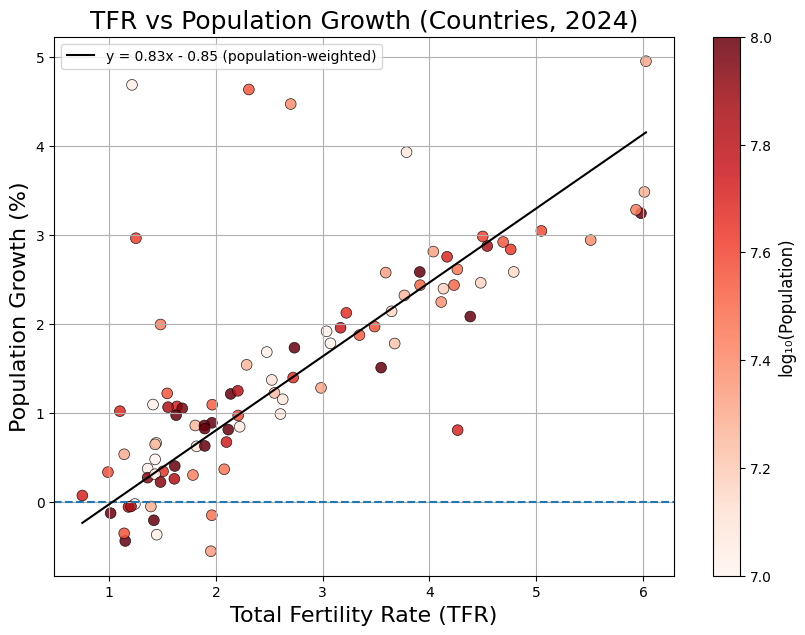
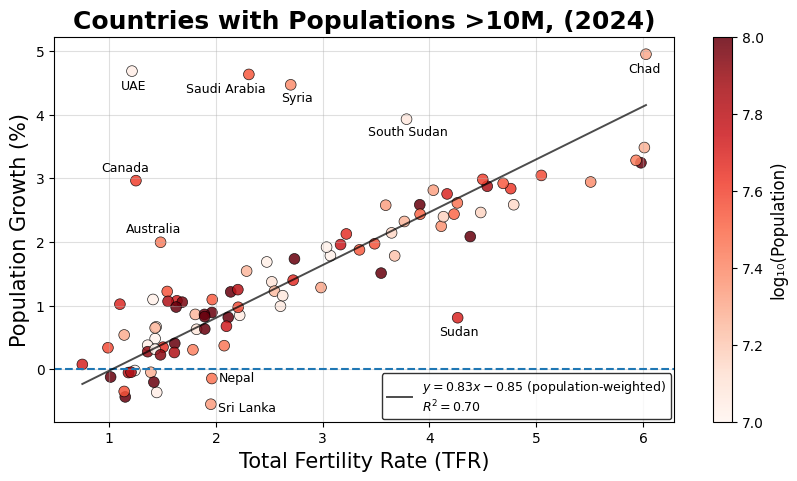
Pics, new article in drafts

diff --git a/_drafts/2026-05-01-fertility_rate.md b/_drafts/2026-05-01-fertility_rate.md
@@ -2,49 +2,276 @@
 
 layout: post
 
-title: "Common Misconceptions About Fertility Rates"
+title: "Fertility Rates Are Trickier Than They Seem"
 
 ---
 
-(TODO: Some remarks about the ongoing politcal debate and TFRs being low across the globe.)
-
-## What's Fertility Rate?
-
-#### Wrong Approach 1: 
-TFR is not about the average number of children per woman. This way our analysis would be contaminated by decisions and customs from 20 years ago. 
-
-#### Wrong Approach 2: Confusing TFR with the Birth Rate
-These two are not the same. Explain, show some pics/gifs.
-
-#### Actual Definition of TFR
-Something.
-
-## **Myth 1:** If TFR sits below ~2.1, then population of a country decreases.
-
-TODO: It's kind of true, but only in the long term. Examples
-
-## **Myth 2:** The replacement rate is ~2.1 to account for premature deaths. 
-
-TODO: No, it's actually the sex ratio. Without it, the RR would sit at almost exactly 2.0. 
-
-## **Myth 3:** Below the replacement rate the population pyramid becomes unstable in the long term.
-
-TODO: Actually, the shapes stabilize over time regardless of TFR. Enter some remarks for nerds that the largest eigenvalue of the Leslie Matrix dominates after ~100 years or so.
-
-## Modelling Demographic Trends
-
-TODO: Don't elaborate on this part earlier - just mention that in the last section some details are covered. Deeper analysis of Leslie and eigenvalues should be considered as a separate post.
-
-
-
-
-<figure style="max-width: 700px; margin: 1.5em auto; text-align: center;">
-  <img src="/assets/img/goddesses/samurai_jack_worms.png"
-       alt="Two-headed Worm"
-       style="width: 100%;">
-  <figcaption style="font-size: 0.9em; color:  #000;">
-    The two guardians puzzle makes a cameo in popular media. For instance, in the 15th episode of Samurai Jack, a two-headed worm (falsely) promises to grant a wish if the samurai solves the puzzle correctly.
+<figure style="max-width: 800px; margin: 1.5em auto; text-align: right;">
+  <img src="/assets/img/fertility_rate/tetmajer.png"
+       alt="ASFR in Poland of 2014"
+       style="width: 100%; display: block;">
+  <figcaption style="font-size: 0.8em; color: #000;">
+    Włodzimierz Tetmajer, <em>The Artist’s Family</em> (1905)
   </figcaption>
 </figure>
+
+In recent years, demography has become a hot topic in political debate. More and more countries describe their long-term trends as bad, with fewer children being born and populations aging rapidly.
+
+To quantify how bad ‘bad’ is, we use various metrics, the most prominent of which is the ***total fertility rate*** (TFR). It is possibly the best proxy we have for the expected number of children per woman and is one of the most widely used statistics in this area. However, as we will soon see, the notion is far trickier than many assume.
+
+
+
+# Total fertility rate: what it is (and isn’t)
+
+Before we proceed to present the full definition and motivation behind it, it's better to explain what TFR *is not*. 
+
+#### Wrong approach 1: Just take the average number of children per woman?
+
+This idea falls apart fairly quickly. The number of children our mothers or grandmothers had doesn't really tell us much about the likelihood that a woman of a certain age would consider having a child *now*.
+
+To study demographic trends, we need a metric that is not ‘contaminated’ by lifestyles, economic conditions, and decisions from many years ago.
+
+
+#### Wrong approach 2: Confusing TFR with Birth Rate
+
+Ok, what about something like the number of births per 1,000 people in the past year? That surely solves the issue of recency mentioned above, right?
+
+This metric is called the ***(crude) birth rate*** (BR). Since both BR and TFR are supposed to capture general demographic trends, the two are quite frequently confused. Regardless, there are some serious caveats:
+
+- If we consider ‘per 1,000 people’ instead of ‘per 1,000 women’, we expose ourselves to the issue of skewed gender ratios. For example, in the United Arab Emirates (2026), ~64% of the population are men.
+
+- Imagine a country where politicians are expected to do something about a low BR. They come up with a brilliant idea: let's relocate everyone above the age of 60 to the Côte d’Azur or Spain. The BR suddenly improves, even though nothing changes about how many children women are willing to have. 
+
+- Children do not contribute to BR either, so relocating them would also help in the short run. And, as the saying goes, in the long run we’re all dead anyway.
+
+#### Wrong approach 3: Confusing TFR with GFR
+
+Ok, what if we focused on women of reproductive age instead? Such a metric is called the ***general fertility rate*** (GFR), which usually considers women between the ages of 15 and 49, at least according to the WHO. Unfortunately… problems:
+
+- One could argue the range is somewhat arbitrary, since a randomly chosen woman aged 48 is, statistically speaking, far less likely to give birth than one aged 28. We could assign some weights to each age group to account for that, but then, GFR would become convoluted and even more arbitrary.
+
+- Ebb and flow. First, consider how many births, on average, are given by women of a particular age in a given country in a given year. This is called ASFR, or ***Age-Specific Fertility Rate***. 
+<div style="height: 0.5em;"></div>
+**Example.** Imagine Country X where the likelihood of a woman of any given age having a child didn't change at all between 1990 and 2010. For each age group the ASFR remains constant over time. However, the population age structure *might* change, which will distort GFR.
+
+<figure style="max-width: 800px; text-align: center;">
+  <img src="/assets/img/fertility_rate/br_vs_tfr.png"
+       alt="ASFR in Poland of 2014"
+       style="width: 100%;">
+  <figcaption style="font-size: 0.8em; color:  #000;">
+    Due to a past baby bust in Country X, there are fewer women aged 30 in 1990. Fifteen years later, a larger cohort reaches that age, increasing GFR from 56.5/1000 to 68.5/1000, even though the likelihood of having a child at each age remains unchanged.
+  </figcaption>
+</figure>
+
+
+#### Actual Definition of TFR
+
+The last wrong approach taught us that we need a metric that won't change if ASFRs remain constant across all the age groups. The simplest thing we could do is to simply take the sum of all these values:  
+
+$$ TFR := \sum_{\text{age}} ASFR(\text{age}). $$
+
+Voilà. In the case described by the diagram above we get $TFR = 2.2$. 
+
+An interpretation of TFR I am quite fond of is the following:
+
+- Imagine a woman born in 2014 who lives through that year on repeat. Every time she reaches the end of the year, she returns to its beginning and experiences the same conditions again. The total number of children she has across these repetitions is exactly what the TFR measures.
+
+The key advantage of TFR is its interpretability. When we hear that Birth Rate of Country X is 19.4/1000, it's not intuitively obvious if it's a lot or not. On the other hand, the TFR of Country X being 2.2 immediately tells us that women are expected to have slightly more than two children on average.
+
+This metric also has some weaknesses, but amongst the most popular choices this one is possibly the most robust.  
+
+
+## **Myth 1:** If TFR sits below ~2.1, then the population of a country decreases.
+
+The value of 2.1 refers to what’s called the ***replacement rate***. I admit the title of this section is a bit provocative, because it’s not really a myth… at least not in the long run. And it might take decades before we see any 'long run'. It turns out that, locally, many interesting and counterintuitive scenarios may occur.
+
+Let us begin by stating the obvious: 
+
+$$ \Delta \text{Population} = \text{Births} - \text{Deaths} + \text{Net Migration}. $$
+
+If we forget about the migration effects, then the population grows simply if more people are born than die. As a consequence, if a certain country is young on average, then to get $\Delta \text{Population} > 0$ we don't even need that many births if the number of deaths stays low.
+
+**Example.** Consider a country called Imaginationland. It satisfies a few conditions:
+
+- In year 2000 it was **occupied only by people of age 40 or younger**. In each age group there were exactly 100,000 of both women and men.
+
+- We have $TFR = 1.0$. **The ASFR curve is simplified** to two straight lines between the ages of 15 and 45 with a peak at 30.
+
+- To make the model cleaner, **no one before the age of 60 ever dies** in Imaginationland.
+
+- The crucial assumption anyone designing any model loves the most: **we assume that no parameter determining the evolution ever changes!**
+
+ 
+
+<!-- <figure style="max-width: 800px; text-align: center;">
+  <img src="/assets/img/fertility_rate/youngpop.gif"
+     onclick="this.src=this.src"
+     alt="Imaginationland Simulation"
+     style="max-width: 800px; width: 100%; display: block; cursor: pointer;">
+  <figcaption style="font-size: 0.8em; color:  #000;">
+    
+  </figcaption>
+</figure> -->
+
+<figure style="max-width: 1100px; text-align: center; margin: auto;">
+  <video
+    controls
+    loop
+    playsinline
+    preload="metadata"
+    style="
+      width: 100%;
+      display: block;
+      margin: 1.5em auto;
+      background: transparent;
+    "
+  >
+    <source src="/assets/img/fertility_rate/youngpop.mp4" type="video/mp4">
+  </video>
+  <figcaption style="font-size: 0.8em; color: #000;">
+    Under our assumptions, the population of Imaginationland still grows for over 30 years despite its TFR being very low.
+  </figcaption>
+</figure>
+<div style="height: 0.5em;"></div>
+
+The temporary increase in population despite low TFR is called ***demographic momentum***. As the example above shows, this period may last even a few decades before a country finally reaches the state of demographic freefall.
+
+One could, of course, point out that the scenario I described is artificial and simplified beyond what reality has to offer. However, as the picture below shows, the demographic momentum is actually the default state:
+
+
+<figure style="max-width: 800px; text-align: center;">
+  <img src="/assets/img/fertility_rate/tfr_vs_popgro.png"
+       alt="TFR and Pop Growth"
+       style="width: 100%;">
+  <figcaption style="font-size: 0.8em; color:  #000;">
+    In large countries with TFR below the replacement rate, the population is often still growing, due to demographic momentum. Although we observe a neat linear relationship between TFR and population growth, it primarily reflects short-term dynamics. In the long run, the entire line is expected to shift downward. The ten largest deviations from the fitted line have been highlighted.
+    <br>
+    <em>Data source: World Bank.</em>
+  </figcaption>
+</figure>
+
+
+
+## **Myth 2:** Replacement rate is above 2.0 mainly because of premature mortality.
+
+Not quite, the main culprit is the ***sex ratio at birth***: more boys than girls are born, and the ratio is usually estimated at around 105/100. Therefore, to ensure full replacement (1 woman per 1 woman), roughly ~2.05 children must be born per woman on average. Even if no one died before the end of the reproductive age, the sex ratio at birth would still be fixed by nature itself.
+
+In most high-income countries, a newborn girl is expected to live to at least age 40 with 98–99% probability, which has only a small effect on the overall replacement rate. In such a scenario, all one needs is to bump it up by another ~0.02-0.03 for good measure.
+
+Of course, in many parts of the world premature mortality, especially infant mortality, remains a serious issue. In such cases, the *true* replacement rate can be much higher than 2.1.
+
+
+
+## **Myth 3:** Persistently low fertility rates eventually lead to a self-reinforcing aging spiral.
+
+This fairly common misconception stems from the following intuition: fewer people are born, which leads to fewer young people working and having children in the future, which in turn leads to even fewer children in the future-future, and so on.
+
+The issue is that the number of elderly people also shrinks proportionally over time.
+
+Even if the total population must decrease in the long run, the *shape* of the population pyramid eventually stabilizes anyway (in the next section I explain why this happens).
+
+Below I demonstrate this effect by simulating how the population pyramid of Poland evolves starting from 2014. Again, we must make two rather brave assumptions:
+
+- **Brave Assumption 1.** All the parameters driving the evolution of the system remain unchanged for the next 200 years. 
+
+- **Brave Assumption 2.** Net migration is zero across all age groups and for both sexes.
+
+The goal is to demonstrate the underlying mechanisms, so we need to make compromises with reality.
+
+
+<figure style="max-width: 1100px; text-align: center; margin: auto;">
+  <video
+    controls
+    loop
+    playsinline
+    preload="metadata"
+    style="
+      width: 100%;
+      display: block;
+      margin: 1.5em auto;
+      background: transparent;
+    "
+  >
+    <source src="/assets/img/fertility_rate/Poland_200y.mp4" type="video/mp4">
+  </video>
+  <figcaption style="font-size: 0.8em; color: #000;">
+    We observe how the fraction of people aged 60 and above quickly reaches ~40% and then remains stable forever.
+    <br>
+    <em>Data source: Statistics Poland.</em>
+  </figcaption>
+</figure>
+<div style="height: 0.5em;"></div>
+
+We notice that in 2014 the pyramid has a rather irregular shape which gradually smooths out over time. The reason is that societies usually shift too quickly for what we call the 'long term' to ever truly materialize. It takes almost 100 years of simulation before the convergence becomes clearly visible. Social and economic changes, historical events, and technological advancements simply never allow the system to settle for that long.
+
+<div style="border: 2px solid black; padding: 12px; margin: 1.5em 0;">
+  <strong>Technical Remark.</strong>
+  The simulation starts in 2014 rather than something more recent to allow for a simple sanity check. In 2014, around 22% of the Polish population was aged 60 or above. Ten years later, the number grew to 26.6%. Our little simulation predicted 27.5%. Not quite a bullseye, but at least we seem to be in roughly the right ballpark.
+</div>
+
+## Modelling demographic trends
+
+In this section I'll briefly cover how I generated the simulations discussed in this post. Given some population to study we need the following ingredients:
+
+- Numbers of men and women for each age group. 
+
+- Survivorship curve for both sexes. From this we can infer the probability of a person surviving the next year depending on age and sex. If by $M_{\text{age},t}$ we denote the number of men of some specific age at time $t$, we could have for example:
+
+$$ 
+  M_{35,t+1}  = M_{34,t} \times  
+  \mathbf{P}( 34 \rightarrow 35 \mid \text{M}). $$
+
+- Sex ratio at birth. I estimated it using the data on Poland of 2014. It turned out that 
+  $\mathbf{P}(\text{Girl}) \approx 0.48557$.
+
+- ASFR for each age group. Together with the values of $W_{\text{age},t}$ (analogous to $M_{\text{age},t}$ but for women), this gives the formulae for the number of newborns the next year:
+
+$$ 
+  \begin{align}
+     W_{0,t+1} &= \sum_{\text{age}} W_{\text{age},t} \times ASFR(\text{age}) \times \mathbf{P}(\text{Girl}), \\
+     M_{0,t+1} &= \sum_{\text{age}} W_{\text{age},t} \times ASFR(\text{age}) \times \mathbf{P}(\text{Boy}).
+  \end{align}     
+$$
+
+For a simple simulation, that's all! Pushing it by a single year can be summarized on the following graph:
+
+<figure style="max-width: 800px; text-align: center;">
+  <img src="/assets/img/fertility_rate/graph.png"
+       alt="TFR and Pop Growth"
+       style="width: 100%;">
+  <!-- <figcaption style="font-size: 0.8em; color:  #000;">
+  </figcaption> -->
+</figure>
+
+Mathematically speaking, this graph represents a certain flow. Since all edge weights are constant, it behaves similarly to a Markov chain and can therefore be viewed as a linear transformation known as the ***Leslie matrix***. In our simulations we consider men and women aged 0 to 110, so the population vector fed into this matrix has length 220.
+
+
+
+<div style="border: 2px solid black; padding: 12px; margin: 1.5em 0;">
+  <strong>So why does the population pyramid from Myth 3 stabilize?</strong>
+    If we apply this transformation repeatedly, as in any long-term simulation, the flow eventually becomes dominated by the eigenvector corresponding to the largest eigenvalue of the Leslie matrix. The existence of a dominant positive eigenvalue is (almost) guaranteed by the Perron-Frobenius theorem.
+
+    <div style="height: 0.5em;"></div>
+    There <em>are</em> some strange edge cases, but this is a topic for another post.
+</div>
+
+
+
+
+
+
+
+
+
+
+<!-- There *are* some edge cases, obviously. Let's call the Leslie matrix of some popuilation $L$. The existence of $\lambda$, a unique and real eigenvalue of the largest magnitude, is guaranteed by the Perron-Frobenius theorem. However, the theorem requires the entries of $L$ to be *positive*, not just non-negative. Hence the notion of ***primitivity***: even if $L$ is not a positive matrix, then some power $L^n$ will eventually be and save the day. We could apply the Perron-Frobenius theorem to $L^n$ instead of $L$ and extact $\lambda$ indirectly. Right?
+
+It turns out that in some exotic scenarios this assumption can be broken. Imagine Odd Country where only women of odd ages give any births. In this strange land children are born every second year, so the population never stablizes.  -->
+
+
+<!-- <div style="border: 2px solid black; padding: 12px; margin: 1.5em 0;">
+  <strong>Nerdy remark.</strong>
+  The convergence occurs because pushing a demographic simulation with constant parameters by a single year is a linear transformation called the Leslie matrix. In the long run, if we keep compounding this transformation with itself over and over, it becomes dominated by its largest eigenvalue. The corresponding eigenvector is exactly the equilibrium point the evolution eventually reaches.
+</div> -->
 
 

diff --git a/_posts/2026-01-20-variance-estimator.md b/_posts/2026-01-20-variance-estimator.md
@@ -7,6 +7,15 @@ title: "Geometry of the Unbiased Variance Estimator"
 ---
 
 
+<figure style="max-width: 800px; margin: 1.5em auto; text-align: right;">
+  <img src="/assets/img/variance/kandinsky.png"
+       alt="ASFR in Poland of 2014"
+       style="width: 100%; display: block;">
+  <figcaption style="font-size: 0.8em; color: #000;">
+    Wassily Kandinsky, <em>White Cross</em> (1922), detail
+  </figcaption>
+</figure>
+
 
 The unbiased variance estimator is given by the well-known formula:
 

diff --git a/_posts/2026-04-25-smullyan-puzzle.md b/_posts/2026-04-25-smullyan-puzzle.md
@@ -8,7 +8,7 @@ title: "The Tale of the Hardest Logic Puzzle Ever"
 
 <img src="/assets/img/goddesses/goddesses.png"
      alt="Front Image"
-     style="max-width: 700px; width: 100%; display: block; margin: 1.5em auto;">
+     style="max-width: 800px; width: 100%; display: block; margin: 1.5em auto;">
 
 The puzzle once baptized as the hardest logic puzzle ever was described in an article by George Boolos, published in *The Harvard Review of Philosophy* in 1996, where Raymond Smullyan is mentioned in the very first sentence as the original author. How the problem was originally formulated, and its exact attribution, are not entirely straightforward, but we will not dwell on historical technicalities here. Without further ado, let's unveil the challenge:
 